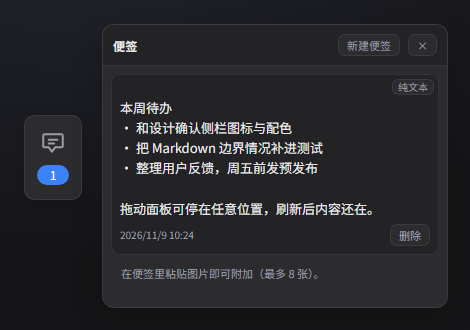
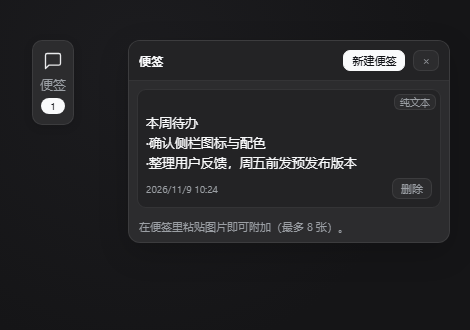
style: adopt DSH's neutral inverted-contrast look; bump 1.0.11

diff --git a/client.js b/client.js
@@ -97,15 +97,16 @@ window.__ModuleLoader__.load({
       };
     }
 
-    // Accent: the baseline blue (--dsb-accent-speed / #3b82f6), matching
-    // DSH's own selected/active blue. Violet (--dsb-accent-intelligence)
-    // was the original choice; the blue has better white-on-colour contrast.
+    // DSH's own UI is neutral: selection reads as inverted contrast, not a
+    // colour. Use the baseline's --dsb-inverted-bg / --dsb-inverted-fg pair
+    // (dark-on-light / light-on-dark); the only saturated pixels left are the
+    // functional --dsb-accent-error / --dsb-accent-warn states.
     const CSS = `
       .dsn-root { position: fixed; left: 16px; top: 50%; transform: translateY(-50%); z-index: 2147482000; pointer-events: none; font-size: 13px; color: var(--dsw-alias-label-primary, #0f1115); }
       .dsn-tab { pointer-events: auto; display: flex; flex-direction: column; align-items: center; gap: 5px; padding: 10px 7px; border: 1px solid var(--dsw-alias-border-l1, #0000000a); border-radius: 10px; background: var(--dsw-alias-bg-layer-1, #ffffff); color: var(--dsw-alias-label-secondary, #61666b); cursor: grab; box-shadow: 0 2px 10px rgba(0,0,0,.12); touch-action: none; user-select: none; }
       .dsn-dragging .dsn-tab { cursor: grabbing; }
-      .dsn-tab:hover { color: var(--dsb-accent-speed, #3b82f6); border-color: var(--dsw-alias-border-l2, #0000001a); }
-      .dsn-badge { min-width: 16px; padding: 0 4px; border-radius: 8px; background: var(--dsb-accent-speed, #3b82f6); color: var(--dsw-alias-bg-base, #ffffff); font-size: 10px; line-height: 16px; text-align: center; }
+      .dsn-tab:hover { color: var(--dsw-alias-label-primary, #0f1115); border-color: var(--dsw-alias-border-l2, #0000001a); }
+      .dsn-badge { min-width: 16px; padding: 0 4px; border-radius: 8px; background: var(--dsb-inverted-bg, #0f1115); color: var(--dsb-inverted-fg, #ffffff); font-size: 10px; line-height: 16px; text-align: center; }
       .dsn-panel { position: absolute; top: 0; left: calc(100% + 10px); pointer-events: auto; width: 320px; max-width: calc(100vw - 48px); max-height: calc(50vh - 12px); display: flex; flex-direction: column; background: var(--dsw-alias-bg-layer-1, #ffffff); border: 1px solid var(--dsw-alias-border-l1, #0000000a); border-radius: 12px; box-shadow: 0 10px 30px rgba(0,0,0,.18); overflow: hidden; }
       .dsn-head { display: flex; align-items: center; gap: 8px; padding: 9px 10px; border-bottom: 1px solid var(--dsw-alias-border-l1, #0000000a); background: var(--dsw-alias-bg-layer-2, #fafafa); }
       .dsn-title { flex: 1; font-size: 12px; font-weight: 600; letter-spacing: .02em; }
@@ -114,7 +115,7 @@ window.__ModuleLoader__.load({
       .dsn-note { background: var(--dsw-alias-bg-layer-2, #fafafa); border: 1px solid var(--dsw-alias-border-l1, #0000000a); border-radius: 9px; padding: 8px; display: flex; flex-direction: column; gap: 5px; }
       .dsn-note-head { display: flex; align-items: center; justify-content: flex-end; margin: -4px -4px -2px 0; }
       .dsn-toggle { border: 1px solid var(--dsw-alias-border-l1, #0000000a); background: var(--dsw-alias-bg-layer-1, #ffffff); color: var(--dsw-alias-label-secondary, #61666b); border-radius: 6px; font: inherit; font-size: 10px; line-height: 14px; padding: 0 5px; cursor: pointer; }
-      .dsn-toggle:hover { color: var(--dsb-accent-speed, #3b82f6); border-color: var(--dsw-alias-border-l2, #0000001a); }
+      .dsn-toggle:hover { color: var(--dsw-alias-label-primary, #0f1115); border-color: var(--dsw-alias-border-l2, #0000001a); }
       .dsn-note textarea { width: 100%; box-sizing: border-box; resize: none; border: none; outline: none; background: transparent; color: inherit; font: inherit; line-height: 1.5; padding: 0; }
       .dsn-preview { line-height: 1.55; min-height: 1.55em; overflow-wrap: anywhere; }
       .dsn-preview > div > :first-child { margin-top: 0; }
@@ -133,21 +134,21 @@ window.__ModuleLoader__.load({
       .dsn-page-sub { margin: 2px 0 0; font-size: 11px; color: var(--dsw-alias-label-secondary, #61666b); }
       .dsn-page-body { flex: 1; min-height: 0; overflow-y: auto; padding: 16px 20px; }
       .dsn-page-body .dsn-list { overflow: visible; padding: 0; }
-      .dsn-btn-primary { background: var(--dsb-accent-speed, #3b82f6); border-color: var(--dsb-accent-speed, #3b82f6); color: var(--dsw-alias-bg-base, #ffffff); }
-      .dsn-btn-primary:hover { color: var(--dsw-alias-bg-base, #ffffff); opacity: .9; }
+      .dsn-btn-primary { background: var(--dsb-inverted-bg, #0f1115); border-color: var(--dsb-inverted-bg, #0f1115); color: var(--dsb-inverted-fg, #ffffff); }
+      .dsn-btn-primary:hover { color: var(--dsb-inverted-fg, #ffffff); opacity: .9; }
       .dsn-btn[disabled] { opacity: .45; cursor: default; }
       .dsn-settings { display: flex; flex-direction: column; gap: 4px; padding: 4px 0; color: var(--dsw-alias-label-primary, #0f1115); font-size: 13px; }
       .dsn-settings-row { display: flex; align-items: center; justify-content: space-between; gap: 16px; padding: 12px 2px; border-bottom: 1px solid var(--dsw-alias-border-l1, #0000000a); }
       .dsn-settings-text { display: flex; flex-direction: column; gap: 3px; }
       .dsn-settings-label { font-weight: 500; }
       .dsn-settings-hint { font-size: 11px; line-height: 1.5; color: var(--dsw-alias-label-secondary, #61666b); }
-      .dsn-check { width: 16px; height: 16px; accent-color: var(--dsb-accent-speed, #3b82f6); cursor: pointer; }
+      .dsn-check { width: 16px; height: 16px; accent-color: var(--dsb-inverted-bg, #0f1115); cursor: pointer; }
       .dsn-width { width: 72px; box-sizing: border-box; border: 1px solid var(--dsw-alias-border-l1, #0000000a); border-radius: 7px; background: var(--dsw-alias-bg-layer-1, #ffffff); color: var(--dsw-alias-label-primary, #0f1115); font: inherit; font-size: 12px; padding: 3px 6px; }
       .dsn-segment { display: inline-flex; border: 1px solid var(--dsw-alias-border-l1, #0000000a); border-radius: 7px; overflow: hidden; }
       .dsn-seg { border: none; border-radius: 0; background: var(--dsw-alias-bg-layer-1, #ffffff); color: var(--dsw-alias-label-secondary, #61666b); font: inherit; font-size: 11px; padding: 3px 9px; cursor: pointer; }
       .dsn-seg + .dsn-seg { border-left: 1px solid var(--dsw-alias-border-l1, #0000000a); }
       .dsn-seg:hover { color: var(--dsw-alias-label-primary, #0f1115); }
-      .dsn-seg[aria-pressed="true"] { background: var(--dsb-accent-speed, #3b82f6); color: var(--dsw-alias-bg-base, #ffffff); }
+      .dsn-seg[aria-pressed="true"] { background: var(--dsb-inverted-bg, #0f1115); color: var(--dsb-inverted-fg, #ffffff); }
       .dsn-gallery { display: flex; flex-wrap: wrap; gap: 6px; }
       .dsn-img { position: relative; display: inline-block; }
       .dsn-img img { display: block; max-width: 100%; max-height: 120px; border-radius: 6px; border: 1px solid var(--dsw-alias-border-l1, #0000000a); }

diff --git a/README.md b/README.md
@@ -5,9 +5,9 @@
 <!-- badges -->
 | | |
 | --- | --- |
-| **version** | `1.0.10` |
-| **npm** | [`dsh-sticky-note-panel@1.0.10`](https://www.npmjs.com/package/dsh-sticky-note-panel) |
-| **release** | [`v1.0.10`](https://github.com/stallenlu/dsh-sticky-notes/releases/tag/v1.0.10) · 预构建 tarball |
+| **version** | `1.0.11` |
+| **npm** | [`dsh-sticky-note-panel@1.0.11`](https://www.npmjs.com/package/dsh-sticky-note-panel) |
+| **release** | [`v1.0.11`](https://github.com/stallenlu/dsh-sticky-notes/releases/tag/v1.0.11) · 预构建 tarball |
 | **dshmarket** | 目录条目已收录 · PR [awesome-dsh-plugin#12977](https://github.com/awesome-dsh-plugin/awesome-dsh-plugin/pull/12977)（2026-11-08 合并 / merged） |
 | **DSH** | `>= 0.2.0-rc.1`（在 0.2.1-rc.5 桌面版开发与实测） |
 | **license** | [MIT](LICENSE) |
@@ -21,7 +21,7 @@
 
 **dsh-sticky-notes** is a sticky-notes plugin for [DeepSeek Harness](https://github.com/deepseek-ai) (DSH): a draggable floating panel beside the conversation, a full page in the sidebar, Markdown preview, image paste, and settings. All data lives in the browser's `localStorage`; there is no host-side logic.
 
-It ships as a prebuilt npm package (`dsh-sticky-note-panel@1.0.10`) and a version-pinned GitHub Release tarball, and is listed in the curated [awesome-dsh-plugin](https://awesome-dsh-plugin.com) catalog, so it can be found and installed from dshmarket.
+It ships as a prebuilt npm package (`dsh-sticky-note-panel@1.0.11`) and a version-pinned GitHub Release tarball, and is listed in the curated [awesome-dsh-plugin](https://awesome-dsh-plugin.com) catalog, so it can be found and installed from dshmarket.
 
 ### Features
 
@@ -73,17 +73,17 @@ dsh plugin --profile web add dsh-sticky-note-panel
 **3 · Version-pinned Release tarball** — the same prebuilt bytes, no npm required:
 
 ```bash
-dsh plugin --profile web add "https://github.com/stallenlu/dsh-sticky-notes/releases/download/v1.0.10/dsh-sticky-note-panel-1.0.10.tgz"
+dsh plugin --profile web add "https://github.com/stallenlu/dsh-sticky-notes/releases/download/v1.0.11/dsh-sticky-note-panel-1.0.11.tgz"
 ```
 
-> When both an npm package and a tarball are known, dshmarket prefers npm; the pinned Release tarball is a fallback and is also consumed by other storefronts (e.g. [dshfind.com](https://dshfind.com/zh/plugins/stallenlu/dsh-sticky-notes)). The `v1.0.10` tag is byte-identical to the published npm tarball (all 9 files match).
+> When both an npm package and a tarball are known, dshmarket prefers npm; the pinned Release tarball is a fallback and is also consumed by other storefronts (e.g. [dshfind.com](https://dshfind.com/zh/plugins/stallenlu/dsh-sticky-notes)). The `v1.0.11` tag is byte-identical to the published npm tarball (all 9 files match).
 
 **4 · Manual (profile.json)** — if you manage the profile by hand instead of the CLI, declare the official npm version directly in `$DSH_PROFILE_DIR/package.json`:
 
 ```json
 {
   "dependencies": {
-    "dsh-sticky-note-panel": "1.0.10"
+    "dsh-sticky-note-panel": "1.0.11"
   },
   "dsh": {
     "profile": {
@@ -107,7 +107,7 @@ Negative controls (to prove the assertions bite): temporarily remove a piece of 
 ### Implementation notes
 
 - Client halves of static boot bundles receive only `require` in their factory — `styles`/`host`/`harness` do not exist there. Styles are installed by hand as a `<style>` element appended to `document.head`.
-- Follows the shared `dsh-design-baseline`: the house stylesheet is injected once via `injectBaseline(document, 'dsh-sticky-notes')` and every root carries `.dsb-root`, so the host's `--dsw-alias-*` neutrals (each with a literal fallback) resolve correctly in both themes. Saturated colour comes only from the six `--dsb-accent-*` accents (the plugin uses the blue `--dsb-accent-speed` for badges, the primary button and selected states); CSS writes no other colours.
+- Follows the shared `dsh-design-baseline` and DSH's own neutral UI: the house stylesheet is injected once via `injectBaseline(document, 'dsh-sticky-notes')` and every root carries `.dsb-root`, so the host's `--dsw-alias-*` neutrals (each with a literal fallback) resolve correctly in both themes. Badges, the primary button and selected states use the baseline's inverted pair `--dsb-inverted-bg` / `--dsb-inverted-fg` (dark-on-light / light-on-dark), so selection reads as contrast, not colour. The only saturated pixels left are the functional `--dsb-accent-error` (error) and `--dsb-accent-warn` (warning) states; CSS writes no other colours.
 - `apply()` and the inner `slots.register` are both wrapped in try/catch: during boot the host audits every manifest plugin, and one non-active entry blocks the whole Web UI. A decorative panel must degrade to "not shown", never to "no app".
 - `MarkdownText` comes from the platform seed table via `require('@deepseek-ai/dsh-client-ui-primitives')`; when unavailable the note degrades to plain text.
 
@@ -130,7 +130,7 @@ Client-half slots: `shell.overlay` (floating tab + panel, order 900), `sidebar.p
 
 **dsh-sticky-notes** 是 [DeepSeek Harness](https://github.com/deepseek-ai)（DSH）的便签插件：对话旁一个可拖动的浮动便签窗，外加侧边栏完整页面、Markdown 预览、粘贴图片和设置项。数据全部存在浏览器 `localStorage`，无 Host 侧逻辑。
 
-已发布为预构建 npm 包（`dsh-sticky-note-panel@1.0.10`）与固定版本的 GitHub Release tarball，并已收录进 [awesome-dsh-plugin](https://awesome-dsh-plugin.com) 精选目录，可通过 dshmarket 搜索与安装。
+已发布为预构建 npm 包（`dsh-sticky-note-panel@1.0.11`）与固定版本的 GitHub Release tarball，并已收录进 [awesome-dsh-plugin](https://awesome-dsh-plugin.com) 精选目录，可通过 dshmarket 搜索与安装。
 
 ### 功能
 
@@ -182,17 +182,17 @@ dsh plugin --profile web add dsh-sticky-note-panel
 **3 · 固定版本 Release tarball**——同一份预构建内容，无需 npm：
 
 ```bash
-dsh plugin --profile web add "https://github.com/stallenlu/dsh-sticky-notes/releases/download/v1.0.10/dsh-sticky-note-panel-1.0.10.tgz"
+dsh plugin --profile web add "https://github.com/stallenlu/dsh-sticky-notes/releases/download/v1.0.11/dsh-sticky-note-panel-1.0.11.tgz"
 ```
 
-> 当 npm 包与 tarball 同时存在时，dshmarket 优先用 npm；固定版本的 Release tarball 作为兜底，同时供其它商店（如 [dshfind.com](https://dshfind.com/zh/plugins/stallenlu/dsh-sticky-notes)）使用。`v1.0.10` 标签与已发布的 npm tarball 逐字节一致（9 个文件全部匹配）。
+> 当 npm 包与 tarball 同时存在时，dshmarket 优先用 npm；固定版本的 Release tarball 作为兜底，同时供其它商店（如 [dshfind.com](https://dshfind.com/zh/plugins/stallenlu/dsh-sticky-notes)）使用。`v1.0.11` 标签与已发布的 npm tarball 逐字节一致（9 个文件全部匹配）。
 
 **4 · 手动声明（profile.json）**——如果不走命令行、而是直接管理 profile，就在 `$DSH_PROFILE_DIR/package.json` 里声明官方 npm 版本：
 
 ```json
 {
   "dependencies": {
-    "dsh-sticky-note-panel": "1.0.10"
+    "dsh-sticky-note-panel": "1.0.11"
   },
   "dsh": {
     "profile": {
@@ -216,7 +216,7 @@ node --check client.js
 ### 实现要点
 
 - 静态 boot bundle 的 client 半面工厂只收到 `require`——`styles`/`host`/`harness` 在这里不存在。样式自建 `<style>` 元素插入 `document.head`。
-- 配色统一到 `dsh-design-baseline`：通过 `injectBaseline(document, 'dsh-sticky-notes')` 注入一次公共样式表，所有根节点都带 `.dsb-root`，让宿主的 `--dsw-alias-*` 中性色（均带字面 fallback）在明暗主题下都能正确解析。有彩色只来自六个 `--dsb-accent-*` accent（便签用其中的蓝色 `--dsb-accent-speed` 作徽标、主按钮与选中态），CSS 不写其它颜色。
+- 配色统一到 `dsh-design-baseline` 并遵循 DSH 官方的中性界面：通过 `injectBaseline(document, 'dsh-sticky-notes')` 注入一次公共样式表，所有根节点都带 `.dsb-root`，让宿主的 `--dsw-alias-*` 中性色（均带字面 fallback）在明暗主题下都能正确解析。徽标、主按钮与选中态使用基线里的反色对 `--dsb-inverted-bg` / `--dsb-inverted-fg`（亮色深底白字、暗色浅底深字），选中靠反差而不是彩色。仅剩的有彩色是功能状态色 `--dsb-accent-error`（错误）/ `--dsb-accent-warn`（警告），CSS 不写其它颜色。
 - `apply()` 整体与生成器内 `slots.register` 都包 try/catch：boot 期宿主会审计每个 manifest 插件，一条未 active 就让整个 Web UI 拒绝启动。装饰性组件必须降级为「不显示」，而不是「崩宿主」。
 - `MarkdownText` 来自平台 seed 表 `require('@deepseek-ai/dsh-client-ui-primitives')`，取不到时优雅退回纯文本。
 
